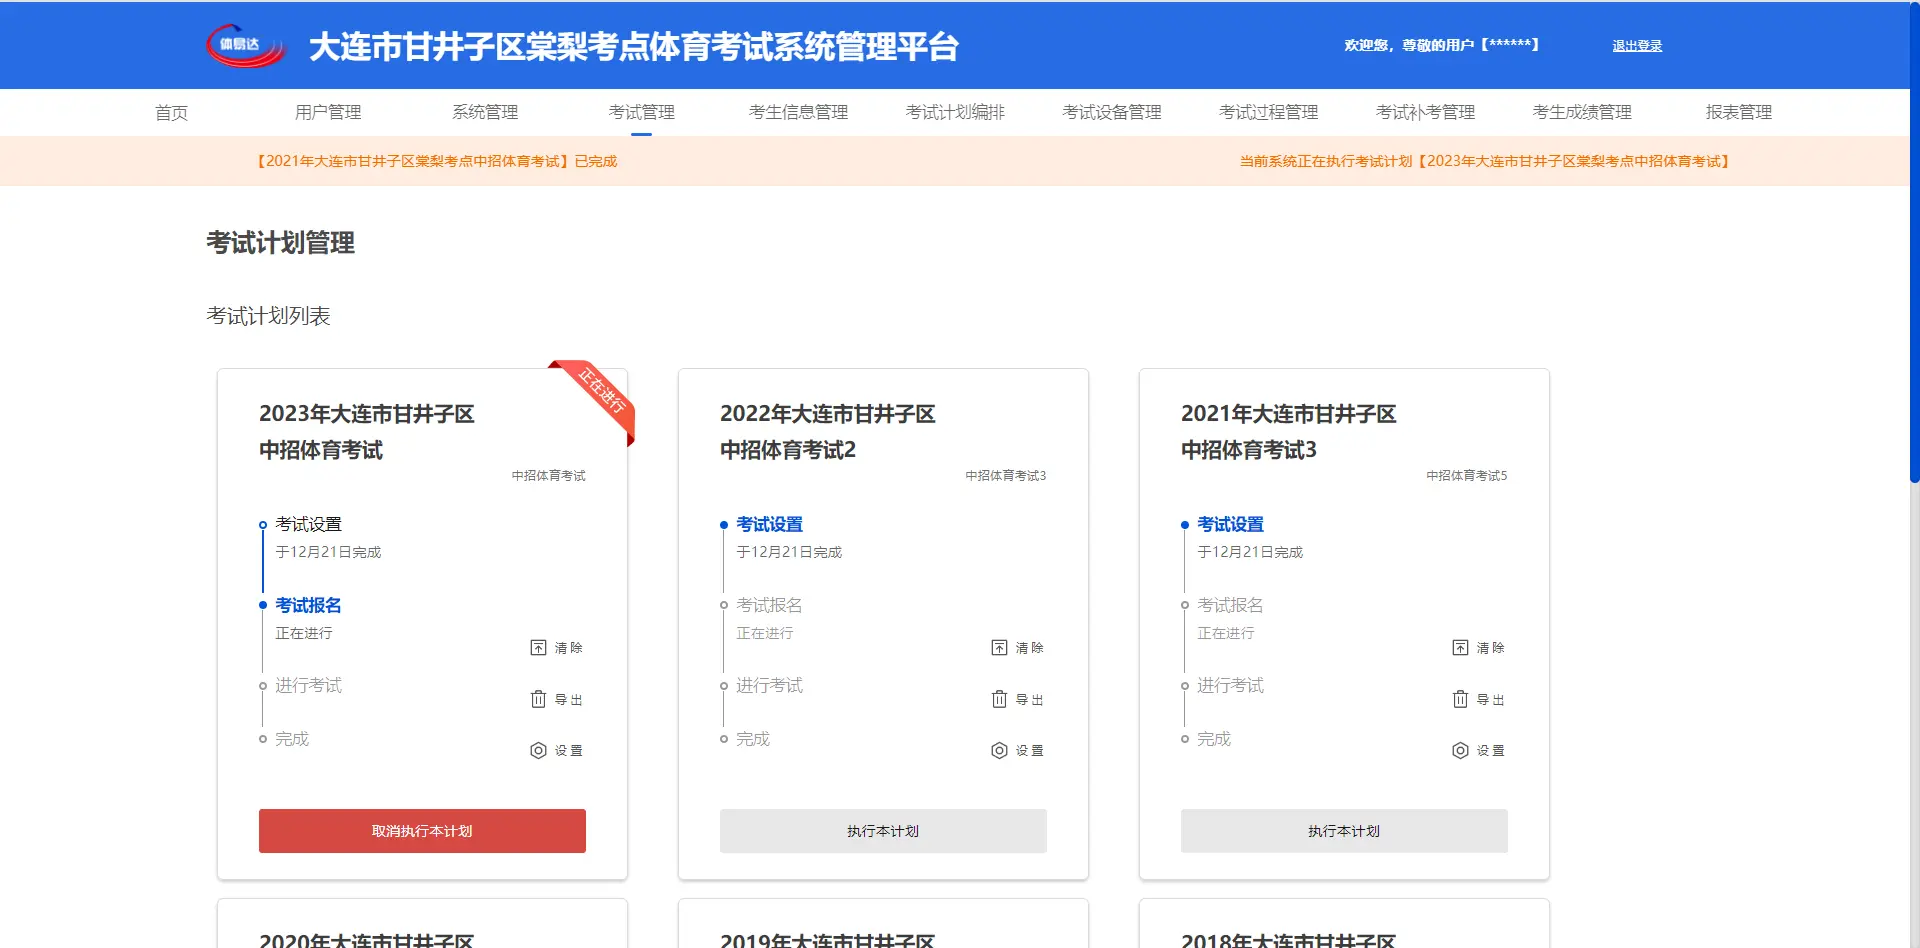
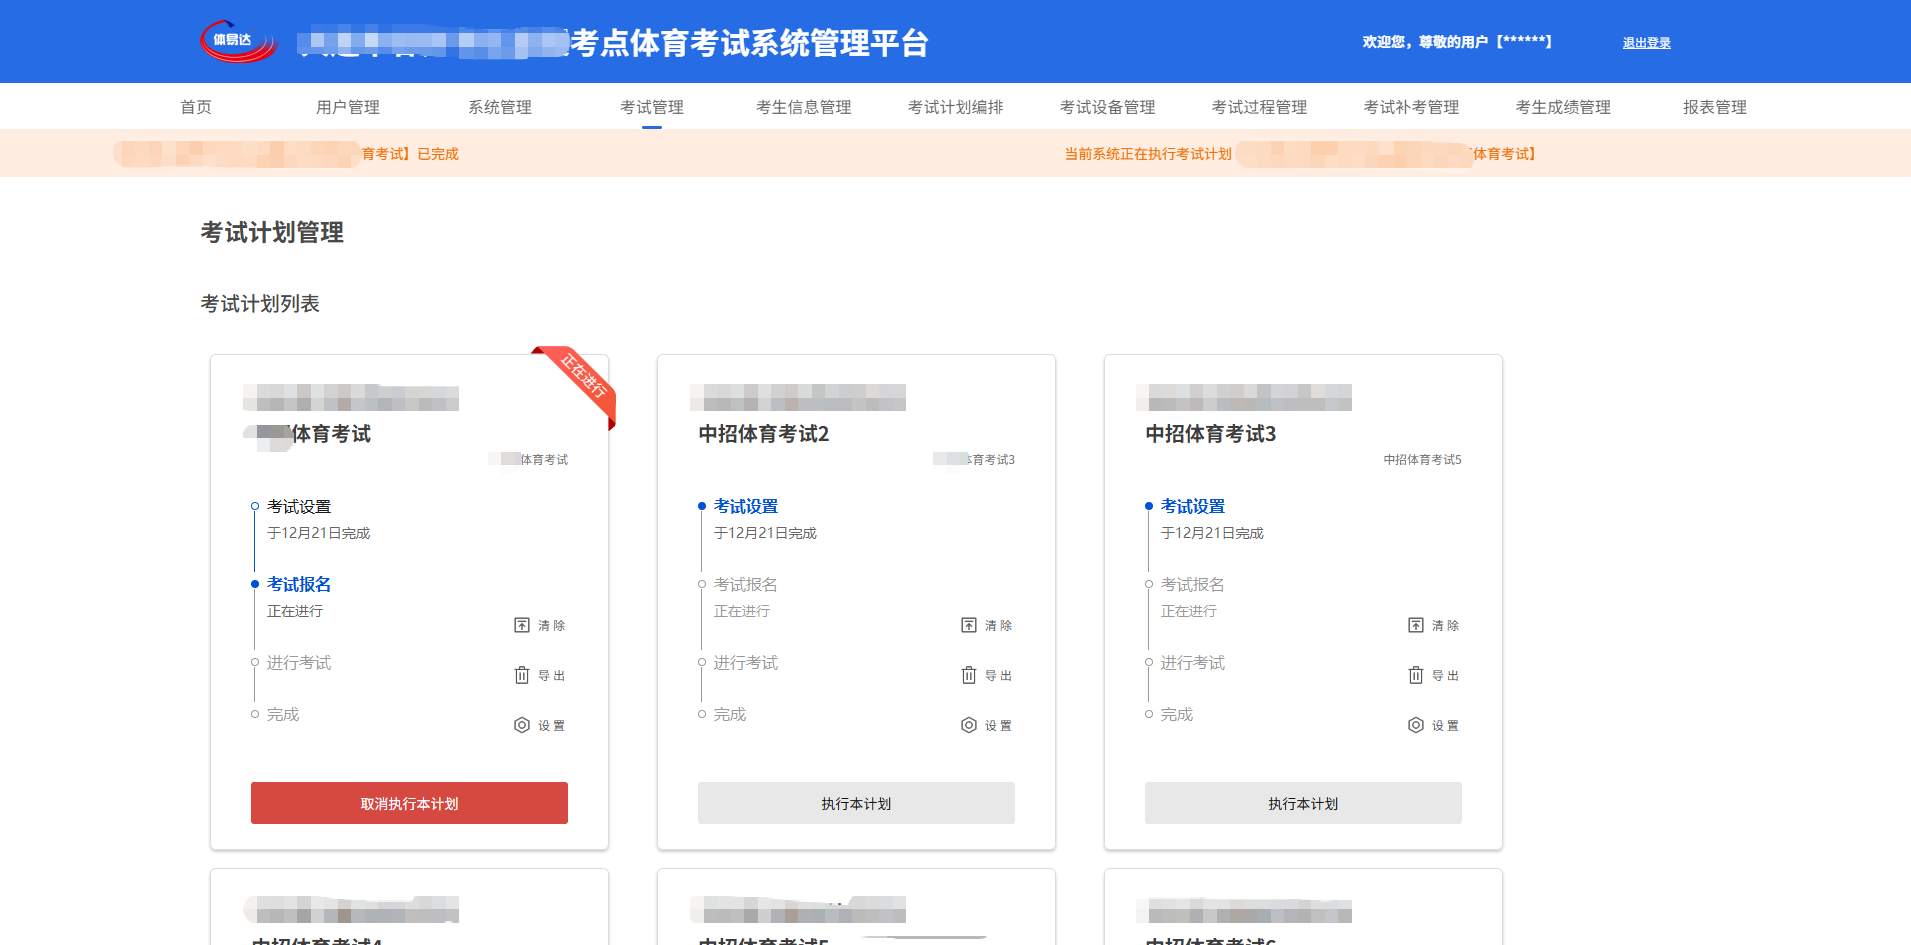
project detail modify

diff --git a/pages/project.vue b/pages/project.vue
@@ -134,7 +134,13 @@ project.value = JSON.parse(route.query?.project || {});
 const getPreviewList = (item: any) => {
   let obj: Record<number, string[]> = {
     1: [
-      "/projects/1/1.png"
+      "/projects/1/1.png",
+      "/projects/1/2.png",
+      "/projects/1/3.png",
+      "/projects/1/4.png",
+      "/projects/1/5.png",
+      "/projects/1/6.png",
+      "/projects/1/7.png",
     ],
     2: [
       "/projects/2/1.png",
@@ -209,14 +215,14 @@ const loadPublicMdFile = async (path:string, toContent:any) => {
     toContent.value = await response.text()
   } catch (error) {
     console.error('加载public文件失败：', error)
-    toContent.value = `### 加载失败\n\n无法读取文件：${(error as Error).message}`
+    toContent.value = `#### 待更新`
   }
 }
 
 /*************启动项****************/
 onMounted(() => {
-  loadPublicMdFile("/markdown/projects/1.md",guideContent)
-  loadPublicMdFile("/markdown/projects/2.md",detailContent)
+  loadPublicMdFile(`/markdown/projects/${project.value.id}-1.md`,guideContent)
+  loadPublicMdFile(`/markdown/projects/${project.value.id}-2.md`,detailContent)
 })
 
 </script>
@@ -365,6 +371,10 @@ onMounted(() => {
               font-weight: 900;
             }
           }
+
+          &-content{
+            width: 8rem;
+          }
         }
 
         .detail{
@@ -387,6 +397,10 @@ onMounted(() => {
               font-size: .14rem;
               font-weight: 900;
             }
+          }
+
+          &-content{
+            width: 8rem;
           }
         }
       }

diff --git a/pages/home.vue b/pages/home.vue
@@ -174,7 +174,13 @@ const loading = ref(false)
 const getPreviewList = (item: any) => {
   let obj: Record<number, string[]> = {
     1: [
-      "/projects/1/1.png"
+      "/projects/1/1.png",
+      "/projects/1/2.png",
+      "/projects/1/3.png",
+      "/projects/1/4.png",
+      "/projects/1/5.png",
+      "/projects/1/6.png",
+      "/projects/1/7.png",
     ],
     2: [
       "/projects/2/1.png",

diff --git a/public/markdown/projects/1-2.md b/public/markdown/projects/1-2.md
@@ -1,0 +1,69 @@
+# 体育考试管理系统
+- 安装部署
+
+  ```
+   # 1. 更新服务器软件包
+  yum update -y
+
+  # 2. 安装 Node.js 和 npm（CentOS 推荐用 nvm 管理版本，避免版本冲突）
+  # 安装 nvm
+  curl -o- https://raw.githubusercontent.com/nvm-sh/nvm/v0.39.1/install.sh | bash
+  # 刷新环境变量
+  source ~/.bashrc
+  # 安装 Node.js 14.x
+  nvm install 14.21.3
+  nvm use 14.21.3
+  
+  # 3. 验证安装
+  node -v  # 输出 v14.21.3 即为成功
+  npm -v   # 输出对应版本即可
+  
+  # 4. 安装 Nginx
+  yum install nginx -y
+  # 启动 Nginx 并设置开机自启
+  systemctl start nginx
+  systemctl enable nginx
+  ```
+
+- 基础环境配置
+
+  ```
+  # 1. 编辑 Nginx 配置文件
+  vim /etc/nginx/conf.d/sport-exam-platform.conf
+  
+  # 2. 粘贴以下配置（核心：指向 dist 文件夹，解决 Vue 路由刷新404问题）
+  server {
+  listen 80;
+  # 若有域名，填写域名；无则填服务器 IP
+  server_name 你的服务器IP/域名;
+  
+      # 指向打包后的 dist 目录
+      root /data/project/sport-exam-platform/dist;
+      index index.html;
+  
+      # 解决 Vue 路由（history 模式）刷新404问题
+      location / {
+          try_files $uri $uri/ /index.html;
+      }
+  
+      # 静态资源缓存配置（可选，提升访问速度）
+      location ~* \.(js|css|png|jpg|jpeg|gif|ico)$ {
+          expires 7d;
+          add_header Cache-Control "public, max-age=604800";
+      }
+  
+      # 禁止访问 .env 等配置文件（安全）
+      location ~ /\.env {
+          deny all;
+      }
+  }
+  
+  # 3. 保存配置并验证 Nginx 配置是否正确
+  nginx -t
+  
+  # 4. 重启 Nginx 使配置生效
+  systemctl restart nginx
+  ```
+
+  
+

diff --git a/public/markdown/projects/2-2.md b/public/markdown/projects/2-2.md
@@ -1,0 +1,69 @@
+# 样叽V3.0
+- 安装部署
+
+  ```
+   # 1. 更新服务器软件包
+  yum update -y
+
+  # 2. 安装 Node.js 和 npm（CentOS 推荐用 nvm 管理版本，避免版本冲突）
+  # 安装 nvm
+  curl -o- https://raw.githubusercontent.com/nvm-sh/nvm/v0.39.1/install.sh | bash
+  # 刷新环境变量
+  source ~/.bashrc
+  # 安装 Node.js 14.x
+  nvm install 14.21.3
+  nvm use 14.21.3
+  
+  # 3. 验证安装
+  node -v  # 输出 v14.21.3 即为成功
+  npm -v   # 输出对应版本即可
+  
+  # 4. 安装 Nginx
+  yum install nginx -y
+  # 启动 Nginx 并设置开机自启
+  systemctl start nginx
+  systemctl enable nginx
+  ```
+
+- 基础环境配置
+
+  ```
+  # 1. 编辑 Nginx 配置文件
+  vim /etc/nginx/conf.d/sport-exam-platform.conf
+  
+  # 2. 粘贴以下配置（核心：指向 dist 文件夹，解决 Vue 路由刷新404问题）
+  server {
+  listen 80;
+  # 若有域名，填写域名；无则填服务器 IP
+  server_name 你的服务器IP/域名;
+  
+      # 指向打包后的 dist 目录
+      root /data/project/sport-exam-platform/dist;
+      index index.html;
+  
+      # 解决 Vue 路由（history 模式）刷新404问题
+      location / {
+          try_files $uri $uri/ /index.html;
+      }
+  
+      # 静态资源缓存配置（可选，提升访问速度）
+      location ~* \.(js|css|png|jpg|jpeg|gif|ico)$ {
+          expires 7d;
+          add_header Cache-Control "public, max-age=604800";
+      }
+  
+      # 禁止访问 .env 等配置文件（安全）
+      location ~ /\.env {
+          deny all;
+      }
+  }
+  
+  # 3. 保存配置并验证 Nginx 配置是否正确
+  nginx -t
+  
+  # 4. 重启 Nginx 使配置生效
+  systemctl restart nginx
+  ```
+
+  
+

diff --git a/public/markdown/projects/2-1.md b/public/markdown/projects/2-1.md
@@ -1,0 +1,45 @@
+# 样叽V3.0
+## 基本介绍
+    样叽是面向年轻人的购物分享推荐平台，整合小红书、微博、抖音等多平台的美食、家居、服装等各类好物，还支持通过长图、短视频、直播等形式展示商品评测。
+    1.经过前两个大版本的业务推广，发现样叽产品用户使用的诸多痛点，团队复盘以及总结经验重新定义样叽产品的核心定位为——达人营销智能管理系统，用户感知上应定义为SaaS产品类别；
+    2.应从达人营销全角色用户的视角去设计和规划产品功能，因此定义系统管理的角色应为：品牌商家、服务商、达人；其中品牌商家与服务商角色应可视为B端用户，其可在样叽上管理内部员工以及角色分配；
+    3.样叽3.0将在样叽1.0、2.0大版本的基座上，真正收拢功能需求，突出SaaS产品的亮点，完成3.0大版本的设计及功能规划；。
+
+## 使用技术
+    vue3、arco-design、element-plus、wangeditor、axios、echarts、pinia、swiper、video.js
+
+## 功能列表
+- 工作台
+    - 数据概览
+    - 任务待办
+        - 公开任务
+        - 定向任务
+        - 寄样物流
+    - 探店邀约
+    - 违约管理
+    - 合作待办
+        - 任务邀约
+        - 入库邀约
+    - 财务待办
+        - 充值与发票
+- 任务中心
+    - 任务管理
+        - 公开任务
+        - 定向任务
+        - 草稿箱
+        - 任务详情
+    - 寄样管理
+        - 物流跟进
+        - 物流详情
+        - 探店管理
+          - 探店详情
+          - 探店详情
+- 推广合作
+- 财务结算
+- 账号管理
+- 使用帮助
+- AI助手
+
+
+  
+

diff --git a/public/markdown/projects/1-1.md b/public/markdown/projects/1-1.md
@@ -1,0 +1,24 @@
+# 体育考试管理系统
+## 基本介绍
+    体育考试系统管理平台专为中招体育考试打造，适配考点的中招体育考试全流程管理需求，
+    结合中招体育考试规则提供智慧体育系统常见功能。
+
+## 使用技术
+    vue2、axios、echarts、swiper、tdesign、vuedraggable、vuex、sass
+
+## 功能列表
+- 首页
+- 用户管理
+- 系统管理
+- 考试管理
+- 考生信息管理
+- 考试计划编排
+- 考试设备管理
+- 考试过程管理
+- 考试补考管理
+- 考生成绩管理
+- 报表管理
+
+
+  
+
